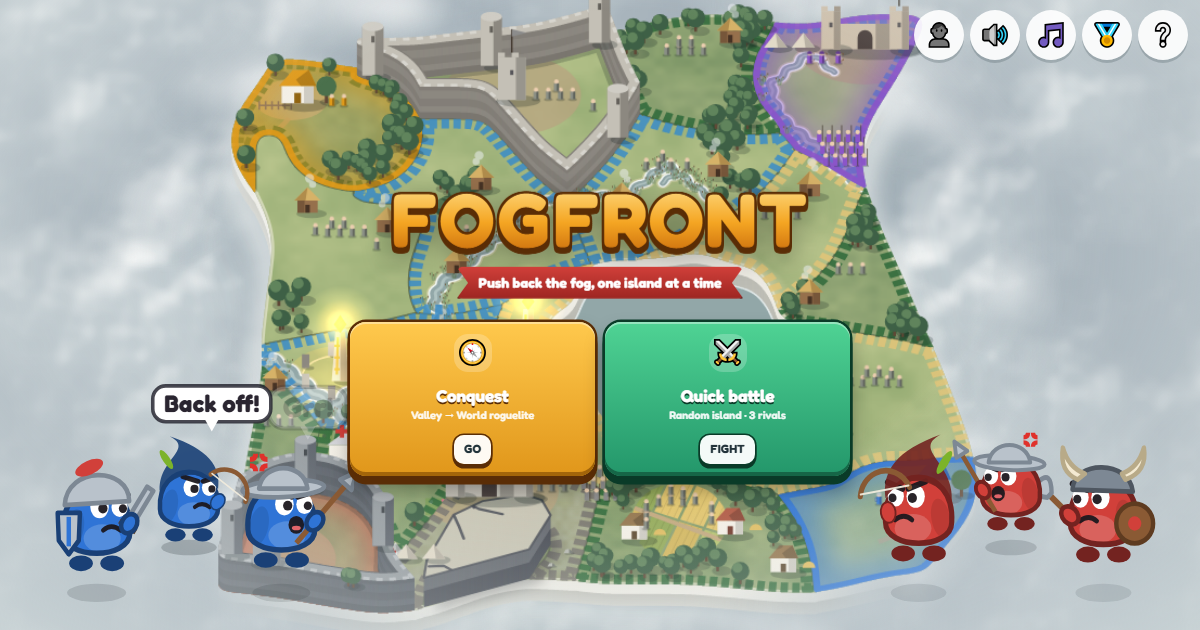
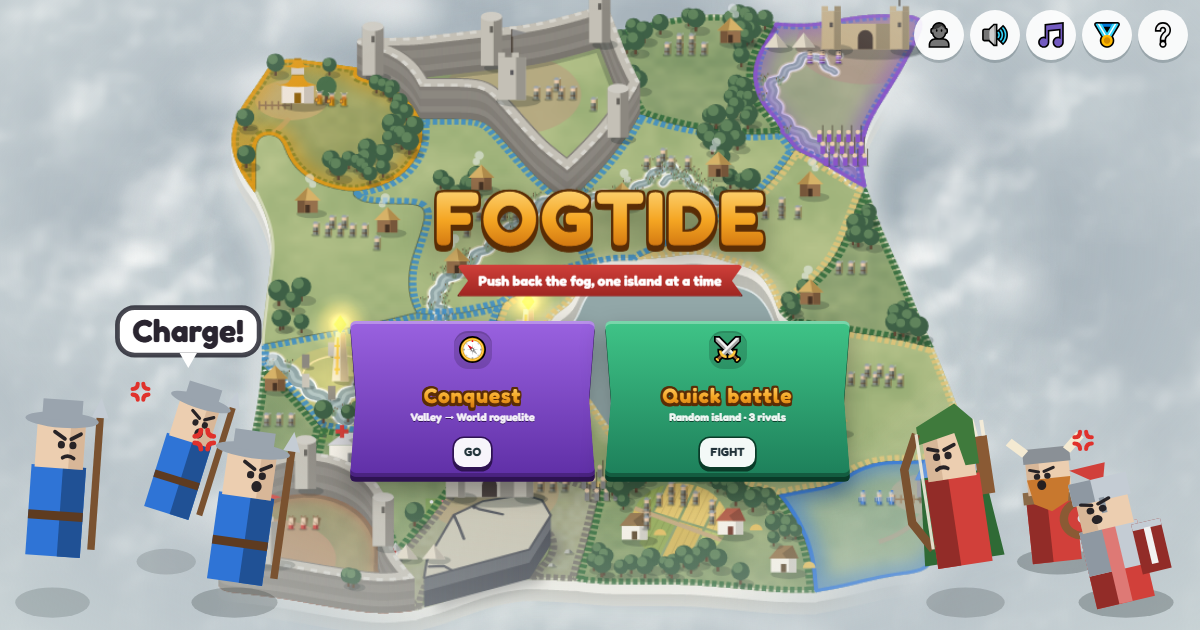
Rename the game to Fogtide (Fog Front is taken on Google Play)

diff --git a/index.html b/index.html
@@ -4,11 +4,11 @@
   <meta charset="utf-8">
   <meta name="viewport" content="width=device-width, initial-scale=1, viewport-fit=cover, user-scalable=no">
   <meta name="theme-color" content="#a9bcbc">
-  <title>Fogfront</title>
+  <title>Fogtide</title>
   <meta name="description" content="A territory strategy game for phone and desktop: grow foglets, build, drag to attack and conquer the island. Free in the browser, no install.">
   <!-- link preview (chat apps, social sites) -->
   <meta property="og:type" content="website">
-  <meta property="og:title" content="Fogfront: conquer the islands beyond the fog">
+  <meta property="og:title" content="Fogtide: conquer the islands beyond the fog">
   <meta property="og:description" content="Grow foglets, build, drag to attack. A quick territory strategy game in your browser.">
   <meta property="og:url" content="https://kalpokasaugustinas.github.io/fogfront/">
   <meta property="og:image" content="https://kalpokasaugustinas.github.io/fogfront/img/og.png">
@@ -26,7 +26,7 @@
   <link rel="preconnect" href="https://fonts.googleapis.com">
   <link rel="preconnect" href="https://fonts.gstatic.com" crossorigin>
   <link rel="stylesheet" href="https://fonts.googleapis.com/css2?family=Fredoka:wght@400;500;600;700&display=swap">
-  <link rel="stylesheet" href="style.css?v=70">
+  <link rel="stylesheet" href="style.css?v=71">
   <!-- phones held upright: turn the page to landscape before the first paint (main.js keeps it in
        sync on resize, but only runs once every module has loaded) -->
   <script>
@@ -80,7 +80,7 @@
         </g>
       </svg>
     </div>
-    <div class="ld-title">FOGFRONT</div>
+    <div class="ld-title">FOGTIDE</div>
     <div class="ld-bar"><span></span></div>
     <p id="ld-tip" class="ld-tip"></p>
   </div>
@@ -120,7 +120,7 @@
     <canvas id="foglets-l" class="foglets left" aria-hidden="true"></canvas>
     <canvas id="foglets-r" class="foglets right" aria-hidden="true"></canvas>
     <div class="logo">
-      <h1>FOGFRONT</h1>
+      <h1>FOGTIDE</h1>
       <div class="ribbon">Push back the fog, one island at a time</div>
     </div>
     <div class="modes">
@@ -128,7 +128,7 @@
       <button id="btn-expedition" class="mode purple"><span class="m-ico">🧭</span><span class="m-txt"><b>Conquest</b><small id="m-expedition">Valley → World roguelite</small></span><span class="play">GO</span></button>
       <button id="btn-skirmish" class="mode green"><span class="m-ico">⚔</span><span class="m-txt"><b>Quick battle</b><small>Random island · 3 rivals</small></span><span class="play">FIGHT</span></button>
     </div>
-    <span id="version">build 70 · 2026-11-03 20:12</span>
+    <span id="version">build 71 · 2026-11-03 21:15</span>
   </section>
 
   <!-- campaign world map -->
@@ -264,6 +264,6 @@
   </div>
 
   <div id="toast"></div>
-  <script type="module" src="js/main.js?v=70"></script>
+  <script type="module" src="js/main.js?v=71"></script>
 </body>
 </html>

diff --git a/js/main.js b/js/main.js
@@ -1,15 +1,15 @@
 // app shell: menu, campaign map, battle screen, input and the frame loop
-import { rules, buildings, effects, factionColors, factionNames, colorNames, troopStyles, buildingStyles, neutralColor, themeNames, traits } from './config.js?v=70';
-import { generateMap, rng } from './mapgen.js?v=70';
-import { initAnalytics, track } from './analytics.js?v=70';
-import { makeBand, drawBand, dressBand } from './foglets.js?v=70';
-import { Battle } from './battle.js?v=70';
-import { personalities } from './ai.js?v=70';
-import { Campaign } from './campaign.js?v=70';
-import { Expedition, stages, perks, scoring } from './expedition.js?v=70';
-import { initAudio, sfx, setSfx, setMusic, setTrack, audioPrefs, audioState, audioFiles } from './audio.js?v=70';
-import { MapView, mapScale, hexToRgb, shade, label, pill, unitSprite, pagePoint, pageRect } from './render.js?v=70';
-import { previewBuildings } from './structures.js?v=70';
+import { rules, buildings, effects, factionColors, factionNames, colorNames, troopStyles, buildingStyles, neutralColor, themeNames, traits } from './config.js?v=71';
+import { generateMap, rng } from './mapgen.js?v=71';
+import { initAnalytics, track } from './analytics.js?v=71';
+import { makeBand, drawBand, dressBand } from './foglets.js?v=71';
+import { Battle } from './battle.js?v=71';
+import { personalities } from './ai.js?v=71';
+import { Campaign } from './campaign.js?v=71';
+import { Expedition, stages, perks, scoring } from './expedition.js?v=71';
+import { initAudio, sfx, setSfx, setMusic, setTrack, audioPrefs, audioState, audioFiles } from './audio.js?v=71';
+import { MapView, mapScale, hexToRgb, shade, label, pill, unitSprite, pagePoint, pageRect } from './render.js?v=71';
+import { previewBuildings } from './structures.js?v=71';
 
 const $ = (id) => document.getElementById(id);
 const params = new URLSearchParams(location.search);

diff --git a/js/foglets.js b/js/foglets.js
@@ -4,7 +4,7 @@
 // leaning in at the foe, shaking with rage, and now and then one blasting off like a rocket diagonally
 // across the menu while a new one hops in. each band draws on its own full-screen canvas (so rockets
 // can cross the screen); the band stands in its side strip
-import { drawFoglet, hexToRgb } from './render.js?v=70';
+import { drawFoglet, hexToRgb } from './render.js?v=71';
 
 // taunts: mostly plain war cries; now and then (refShare of the time) a short nod to a game or
 // film, so the jokes stay fresh. launch cries work the same way
@@ -12,7 +12,7 @@ const refShare = 0.29;
 const shouts = ['Grr!', 'Hey!', 'Ours!', 'Back off!', 'Charge!', 'Mine!', 'Come here!', 'Hmph!', 'Bring it!', 'Fight me!',
   'My hill!', 'Shoo!', 'Nope!', 'Ha!', 'You and what army?', 'Boo!', 'Get lost!', 'Huzzah!'];
 const refs = ['Out of bubblegum!', 'DONKEY!', "I'll make you cry like an onion!", 'Wololo!', 'Leeeroy!', 'All your base!',
-  'Finish him!', 'You shall not pass!', 'Get over here!', 'This is FOGFRONT!', 'Hadouken!', 'The cake is a lie!',
+  'Finish him!', 'You shall not pass!', 'Get over here!', 'This is FOGTIDE!', 'Hadouken!', 'The cake is a lie!',
   'Fus ro dah!', "It's-a me!", 'Ogres have layers!'];
 const launches = ['Wheee!', 'Bye!', 'Up I go!', 'Woooo!', 'See ya!'];
 const launchRefs = ['Do a barrel roll!', 'To infinity!', 'Yippee-ki-yay!', 'Houston, bye!'];

diff --git a/js/battle.js b/js/battle.js
@@ -1,10 +1,10 @@
 // battle simulation: segments, troops, buildings, armies. no drawing here,
 // so the same code runs in the browser and in headless tests.
-import { rules, buildings, effects, traits, relicGarrison } from './config.js?v=70';
-import { perks, combineMods } from './expedition.js?v=70';
-import { hops } from './mapgen.js?v=70';
-import { rng, spreadStarts, equalizeStarts } from './mapgen.js?v=70';
-import { think } from './ai.js?v=70';
+import { rules, buildings, effects, traits, relicGarrison } from './config.js?v=71';
+import { perks, combineMods } from './expedition.js?v=71';
+import { hops } from './mapgen.js?v=71';
+import { rng, spreadStarts, equalizeStarts } from './mapgen.js?v=71';
+import { think } from './ai.js?v=71';
 
 const round1 = (v) => Math.round(v * 10) / 10;
 

diff --git a/js/campaign.js b/js/campaign.js
@@ -3,8 +3,8 @@
 // the world is a noise-generated continent with islands (sea routes link them), lakes and mountains.
 // regions belong to 4 rival empires; difficulty grows with distance from home; each region has a
 // climate by position (snowy north, autumn east, moor west, summer south) that its battle uses.
-import { generateMap, hops, rng } from './mapgen.js?v=70';
-import { personalities } from './ai.js?v=70';
+import { generateMap, hops, rng } from './mapgen.js?v=71';
+import { personalities } from './ai.js?v=71';
 
 const save_key = 'frontlines.campaign.v2';   // v2 = big world map (old saves don't fit)
 const world_seed = 20332373;   // picked from a seed scan: 4 islands, 3 sea routes, ~35% land

diff --git a/js/expedition.js b/js/expedition.js
@@ -7,9 +7,9 @@
 //   - pick 1 of 3 perks
 // bots scale with you: base troops + 70% of your carried people, and capitals with the same
 // total bonus strength in a random mix. losing a stage ends the run.
-import { effects } from './config.js?v=70';
-import { personalities } from './ai.js?v=70';
-import { rng } from './mapgen.js?v=70';
+import { effects } from './config.js?v=71';
+import { personalities } from './ai.js?v=71';
+import { rng } from './mapgen.js?v=71';
 
 export const stages = [
   { name: 'Valley', detail: 1, cells: 12, bots: 1, shape: 'random', neutral: [0.12, 0.3] },

diff --git a/js/render.js b/js/render.js
@@ -5,8 +5,8 @@
 // map grid with marching squares + chaikin smoothing, so nothing looks pixelated at any size.
 // layers (display resolution, cached): under (fog, cliff) -> top (ground, building scenes, owner
 // overlays, borders, rocks, trees; repainted when owners, buildings or the selection change)
-import { themes } from './config.js?v=70';
-import * as structures from './structures.js?v=70';
+import { themes } from './config.js?v=71';
+import * as structures from './structures.js?v=71';
 
 export function hexToRgb(hex) {
   const n = parseInt(hex.slice(1), 16);

diff --git a/js/ai.js b/js/ai.js
@@ -4,8 +4,8 @@
 //                so a big empire doesn't act faster than a small one),
 //                grudge: extra value for player segments,
 //                allow: optional list of building types (balance tests) }
-import { rules, buildings, effects } from './config.js?v=70';
-import { hops } from './mapgen.js?v=70';
+import { rules, buildings, effects } from './config.js?v=71';
+import { hops } from './mapgen.js?v=71';
 
 export const personalities = {
   aggressive: { build: 0.25, risk: 1.15, actions: 2, grudge: 0.3 },

diff --git a/js/analytics.js b/js/analytics.js
@@ -2,7 +2,7 @@
 // counts page views plus a few game events (modes started, tutorial, wins, conquest stages) and
 // js errors players hit.
 // off while code is empty, and never on localhost (tests)
-const code = 'fogfront';   // goatcounter site code: https://fogfront.goatcounter.com
+const code = 'fogfront';   // goatcounter site code (kept from the game's old name): https://fogfront.goatcounter.com
 
 const on = () => !!code && !/^(localhost|127\.)/.test(location.hostname);
 

diff --git a/js/mapworker.js b/js/mapworker.js
@@ -1,5 +1,5 @@
 // map generation off the main thread: the conquest pre-builds the next stage's map in here while
 // the perk card is up (main.js preloadMap), so the next stage starts without a pause
-import { generateMap } from './mapgen.js?v=70';
+import { generateMap } from './mapgen.js?v=71';
 
 onmessage = (e) => postMessage(generateMap(e.data));

diff --git a/README.md b/README.md
@@ -1,4 +1,4 @@
-# Fogfront
+# Fogtide
 
 A territory strategy game (formerly Frontlines) for the browser; on phones the first tap goes fullscreen. Conquer a world map region by region. Each region is a battle against computer opponents on a map split into segments. Grow troops, build, and do the math on which fights to pick. In the game the troops are called **foglets**.
 
